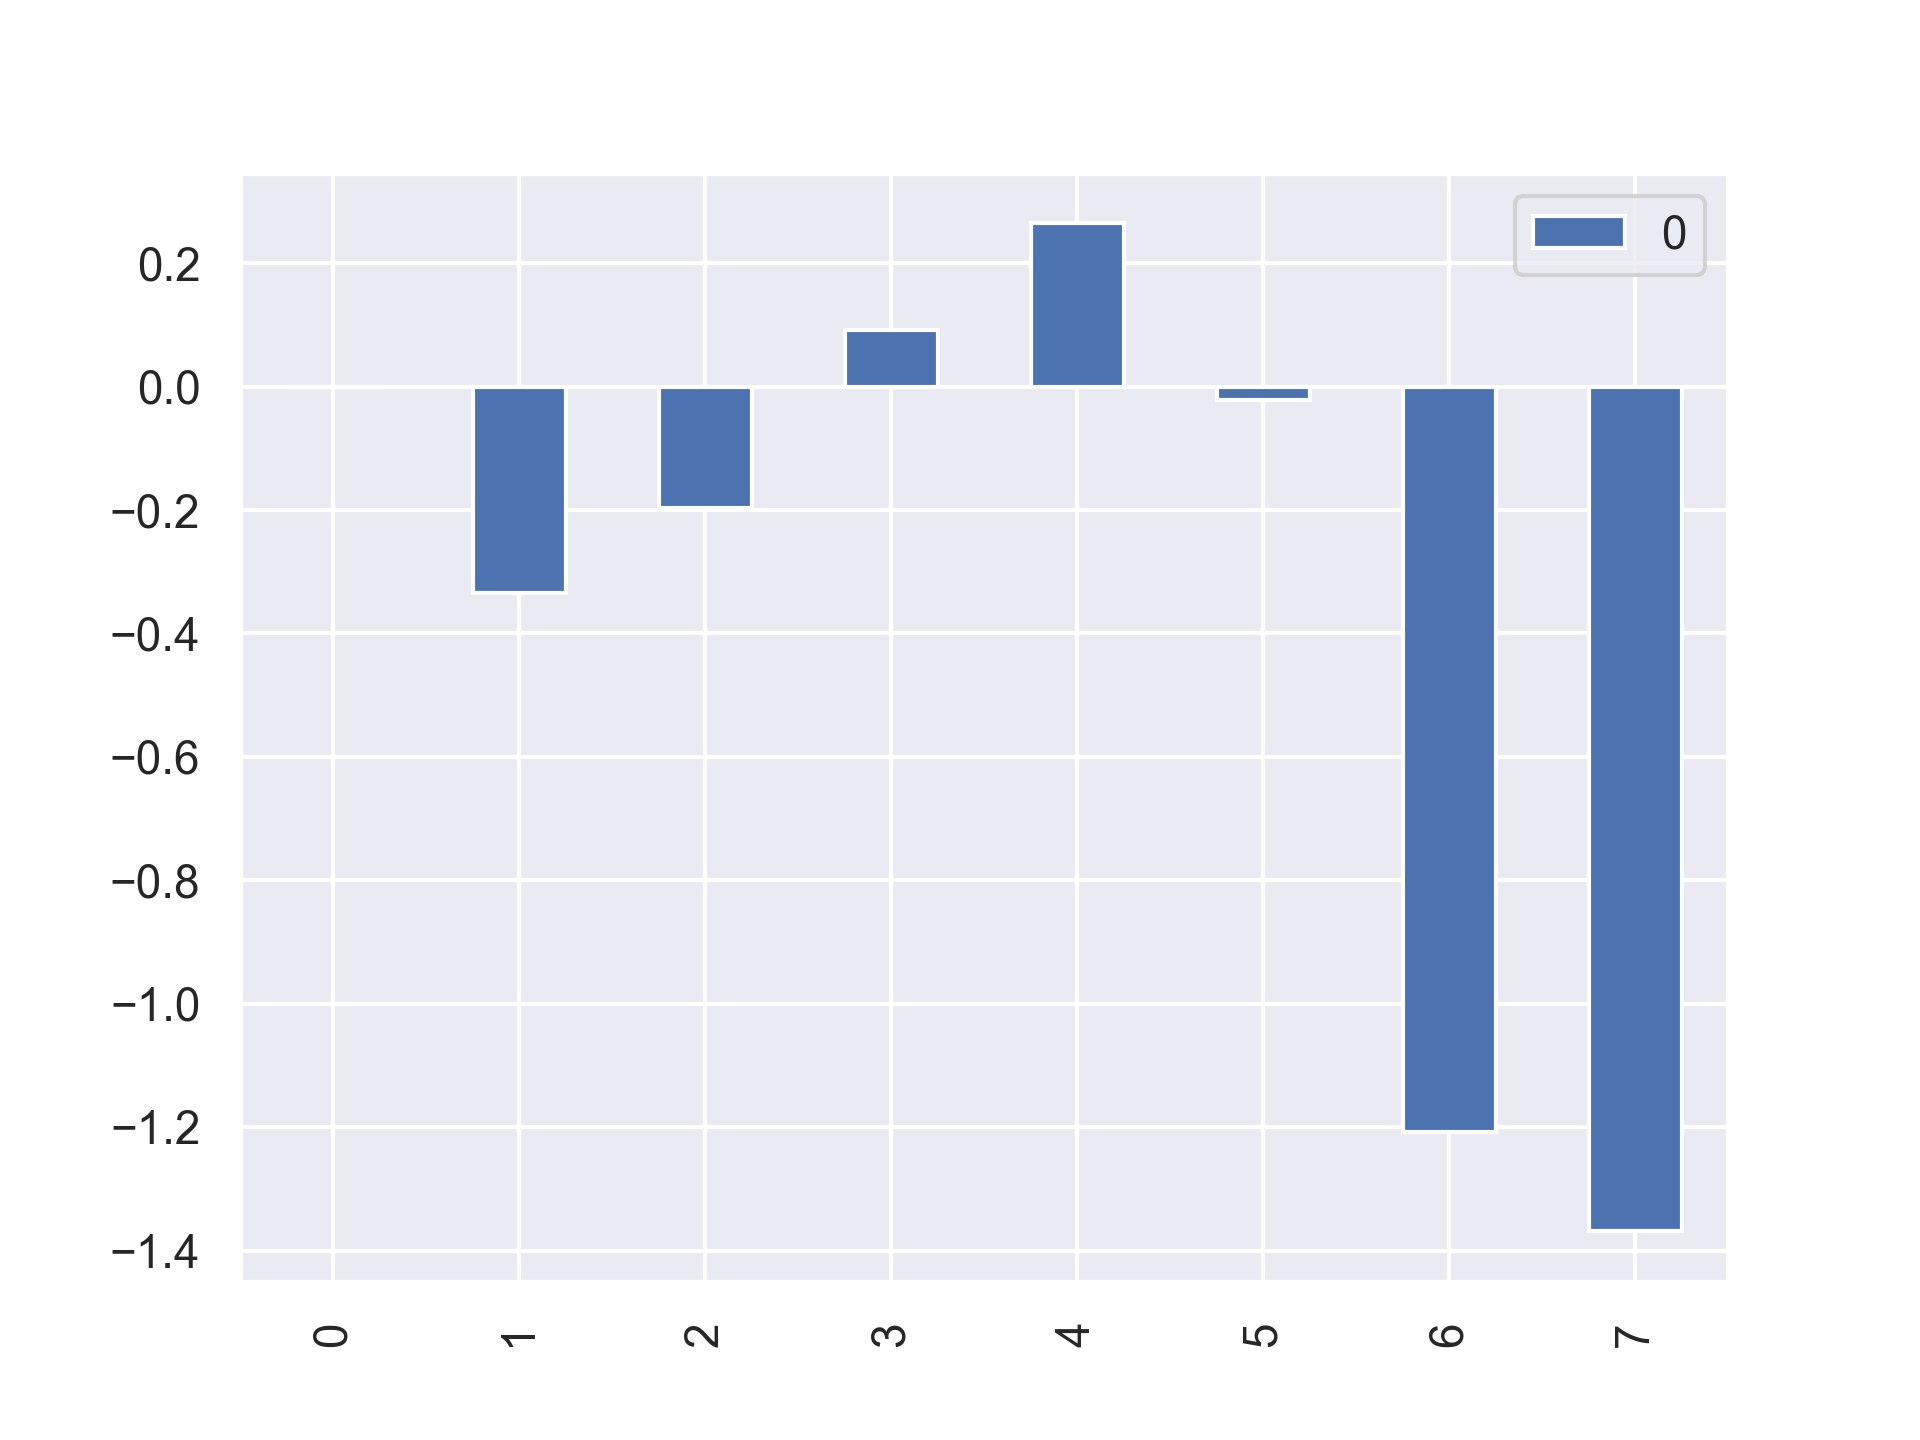
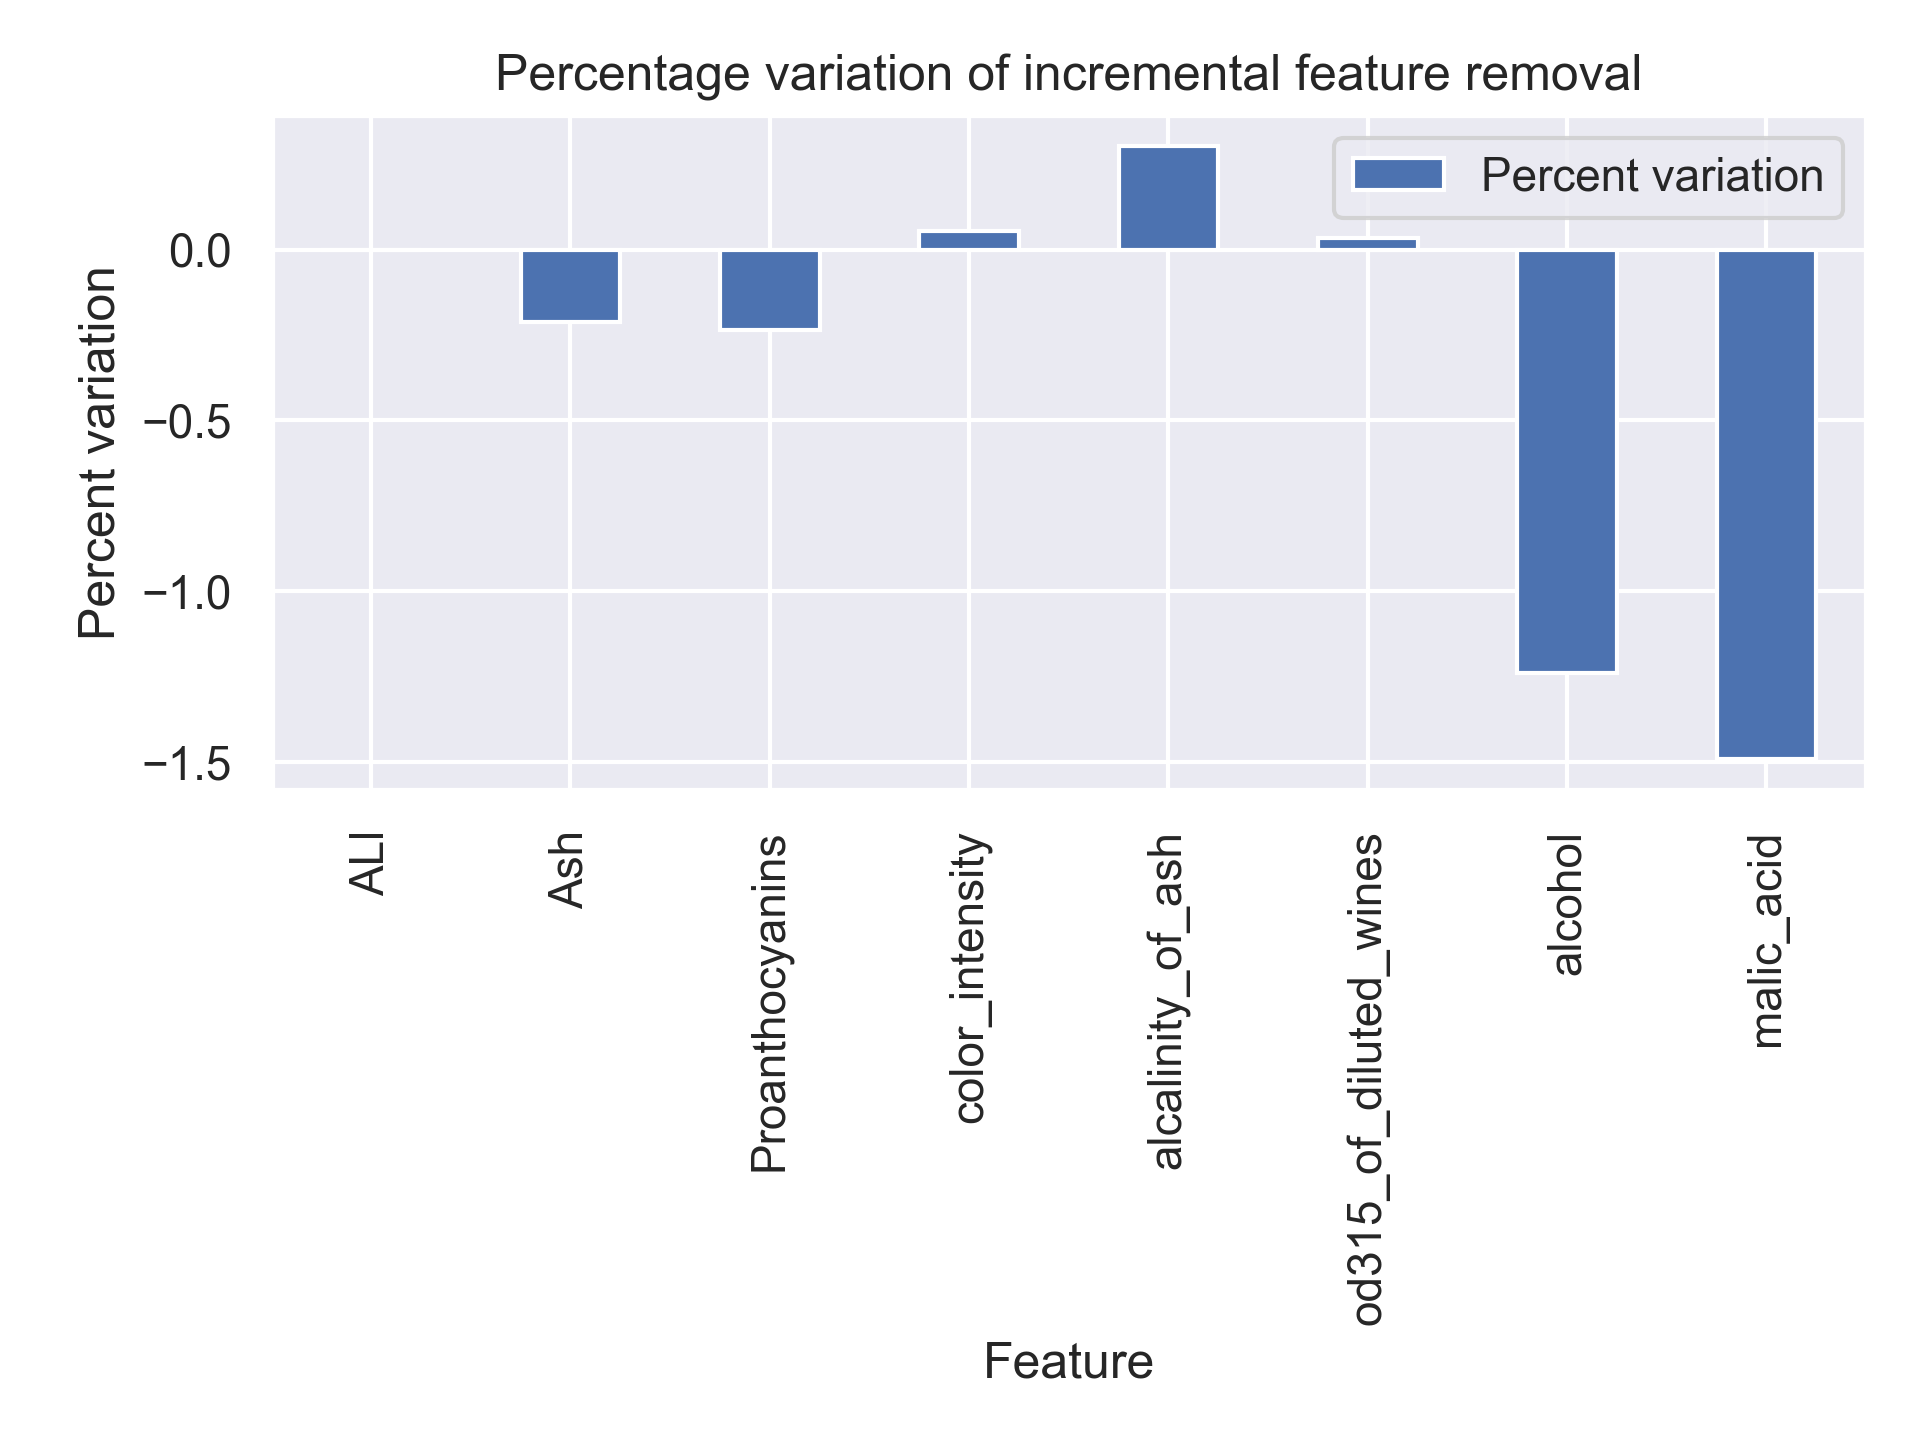
Plots x, y and title description New rendered plots Update to the README.MD file

diff --git a/project.py b/project.py
@@ -283,7 +283,7 @@ ax.set_xlabel('Feature')
 ax.set_ylabel('f1-score')
 # Show each distribution with both violins and points
 sea.violinplot(data=tsint, palette=pal, inner="points")
-
+plt.tight_layout()
 os.makedirs('plots/Violinplots/', exist_ok=True)
 plt.savefig(f'plots/Violinplots/Single_removal_features.png', dpi=300)
 
@@ -326,6 +326,7 @@ ax.set_xlabel('Feature')
 ax.set_ylabel('f1-score')
 # Show each distribution with both violins and points
 sea.violinplot(data=tsint, palette=pal, inner="points")
+plt.tight_layout()
 os.makedirs('plots/Violinplots/', exist_ok=True)
 plt.savefig(f'plots/Violinplots/Incremental_removal_features.png', dpi=300)
 plt.close()
@@ -344,6 +345,7 @@ axes.set_xticklabels(tsint.columns, rotation=45)
 axes.set_title('Mean value of incremantal feature removal')
 axes.set_xlabel('Feature')
 axes.set_ylabel('f1-score')
+plt.tight_layout()
 mean.plot.bar()
 
 plt.savefig(f'plots/Histogram_mean_values.png', dpi=300)
@@ -359,15 +361,19 @@ for iter in range(0, 8):
 
 print(results)
 
-# new dataframe from the results
+rows = ["ALl", "Ash", "Proanthocyanins", "color_intensity", "alcalinity_of_ash", "od315_of_diluted_wines", "alcohol", "malic_acid"]
 df=pd.DataFrame(data=results)
+df.index = rows
+df.columns = ["Percent variation"]
 print(df)
 
 fig, axes = plt.subplots(1, 1, figsize=(5, 5))
-axes.set_title('Percentage variation of incremental feature removal')
-axes.set_xlabel('Feature')
-axes.set_ylabel('percent variation')
+axes.set_xticklabels(df.index, rotation=45)
 df.plot.bar()
+plt.title('Percentage variation of incremental feature removal')
+plt.xlabel('Feature')
+plt.ylabel('Percent variation')
+plt.tight_layout()
 
 plt.savefig(f'plots/Histogram_percentage_variation_values.png', dpi=300)
 

diff --git a/README.MD b/README.MD
@@ -89,7 +89,7 @@ Final analysis of the overall effects or feature removal can be seen in the foll
 
 ![matrix](./plots/Histogram_percentage_variation_values.png)
 
-We can clearly see an increase of 0.264862 percent in f1-score in regards to the 4 features that were removed. This can seem small but any improvement to the model will gain in accuracy.
+We can clearly see an increase of 0.303435 percent in f1-score in regards to the 4 features that were removed. This can seem small but any improvement to the model will gain in accuracy.
 
 Another observation is that the removal of all of the selected low correlated feature does not negatively impact the accuracy of the model.
 
